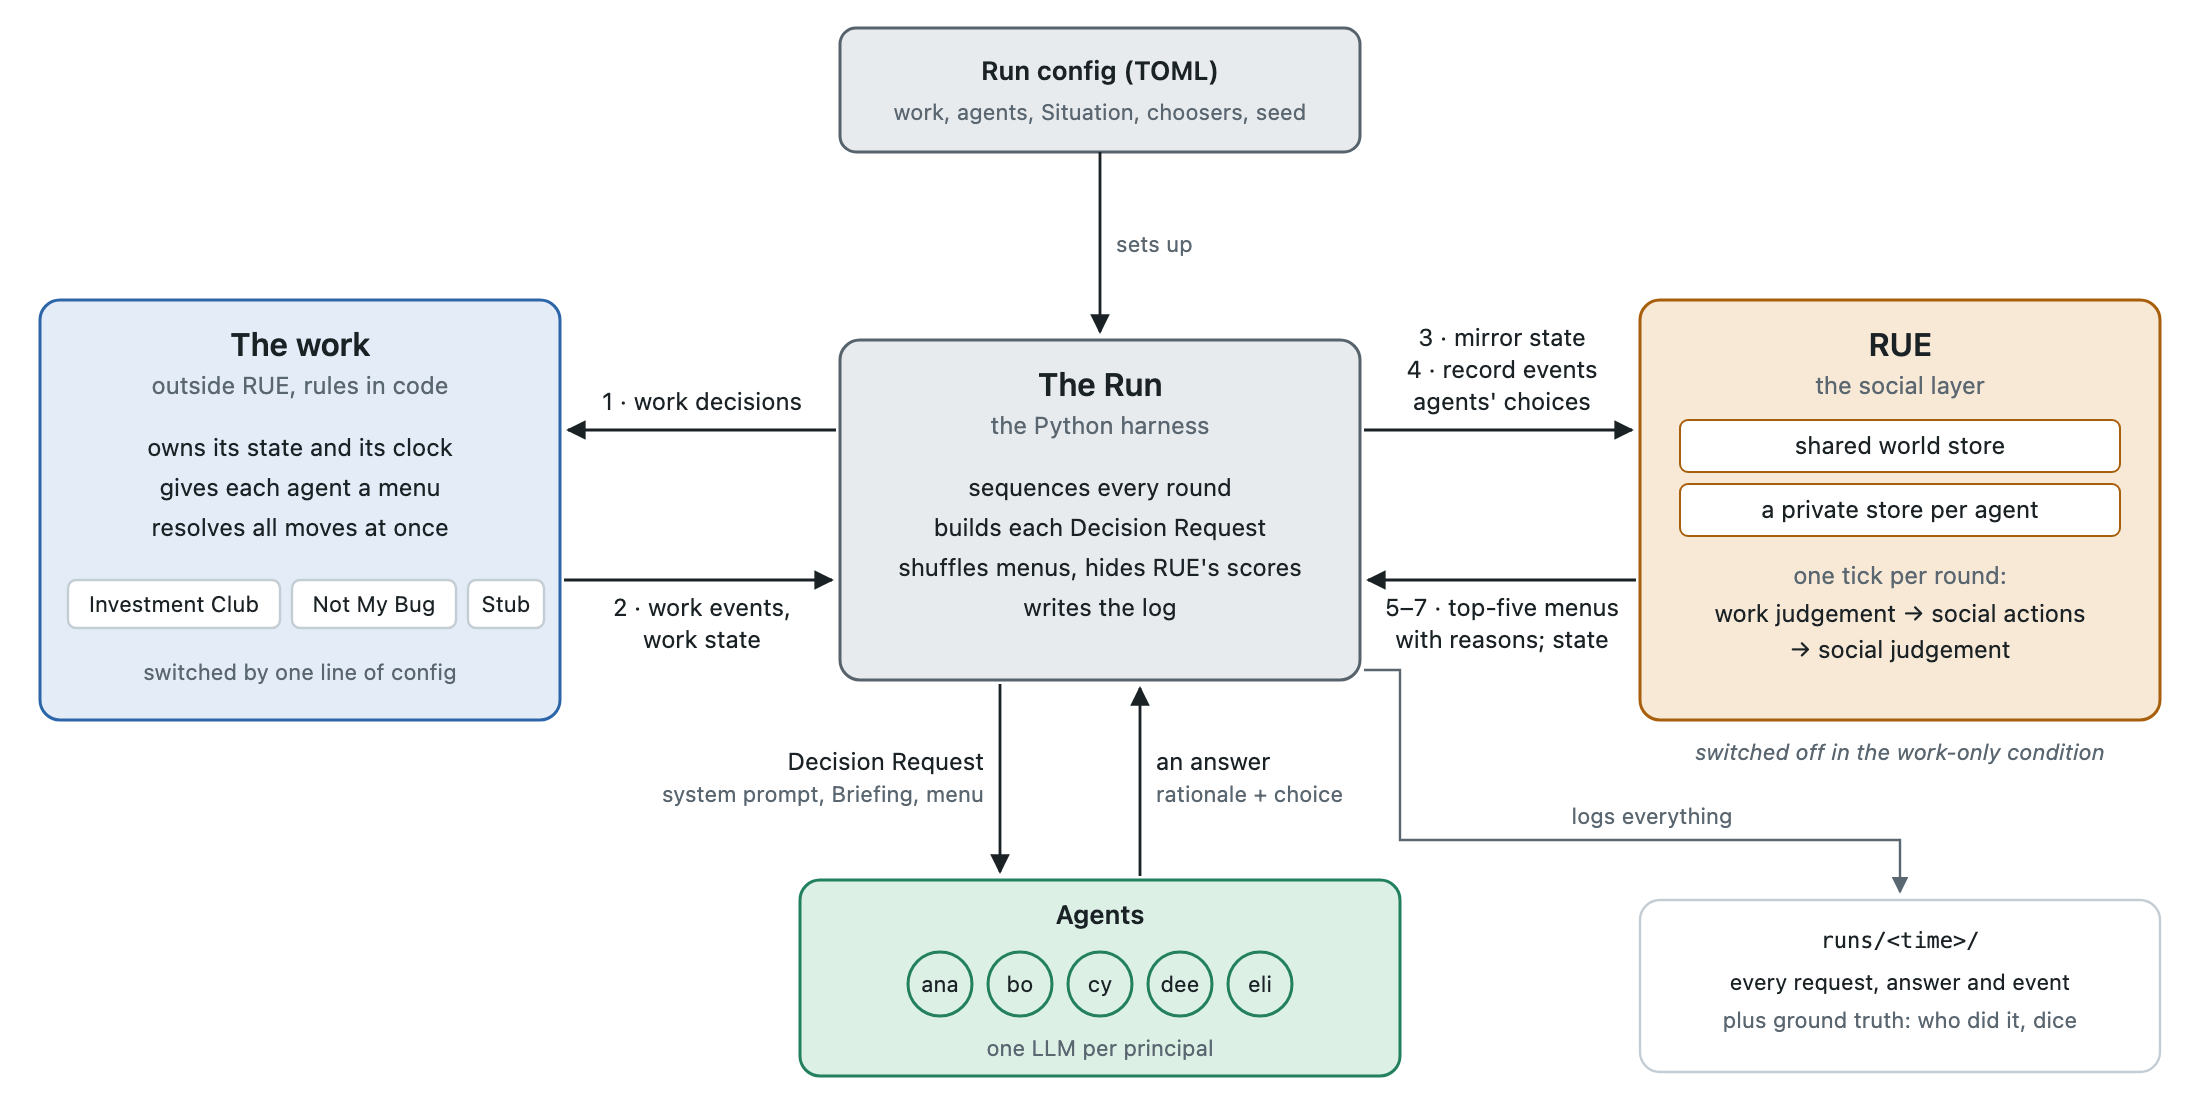
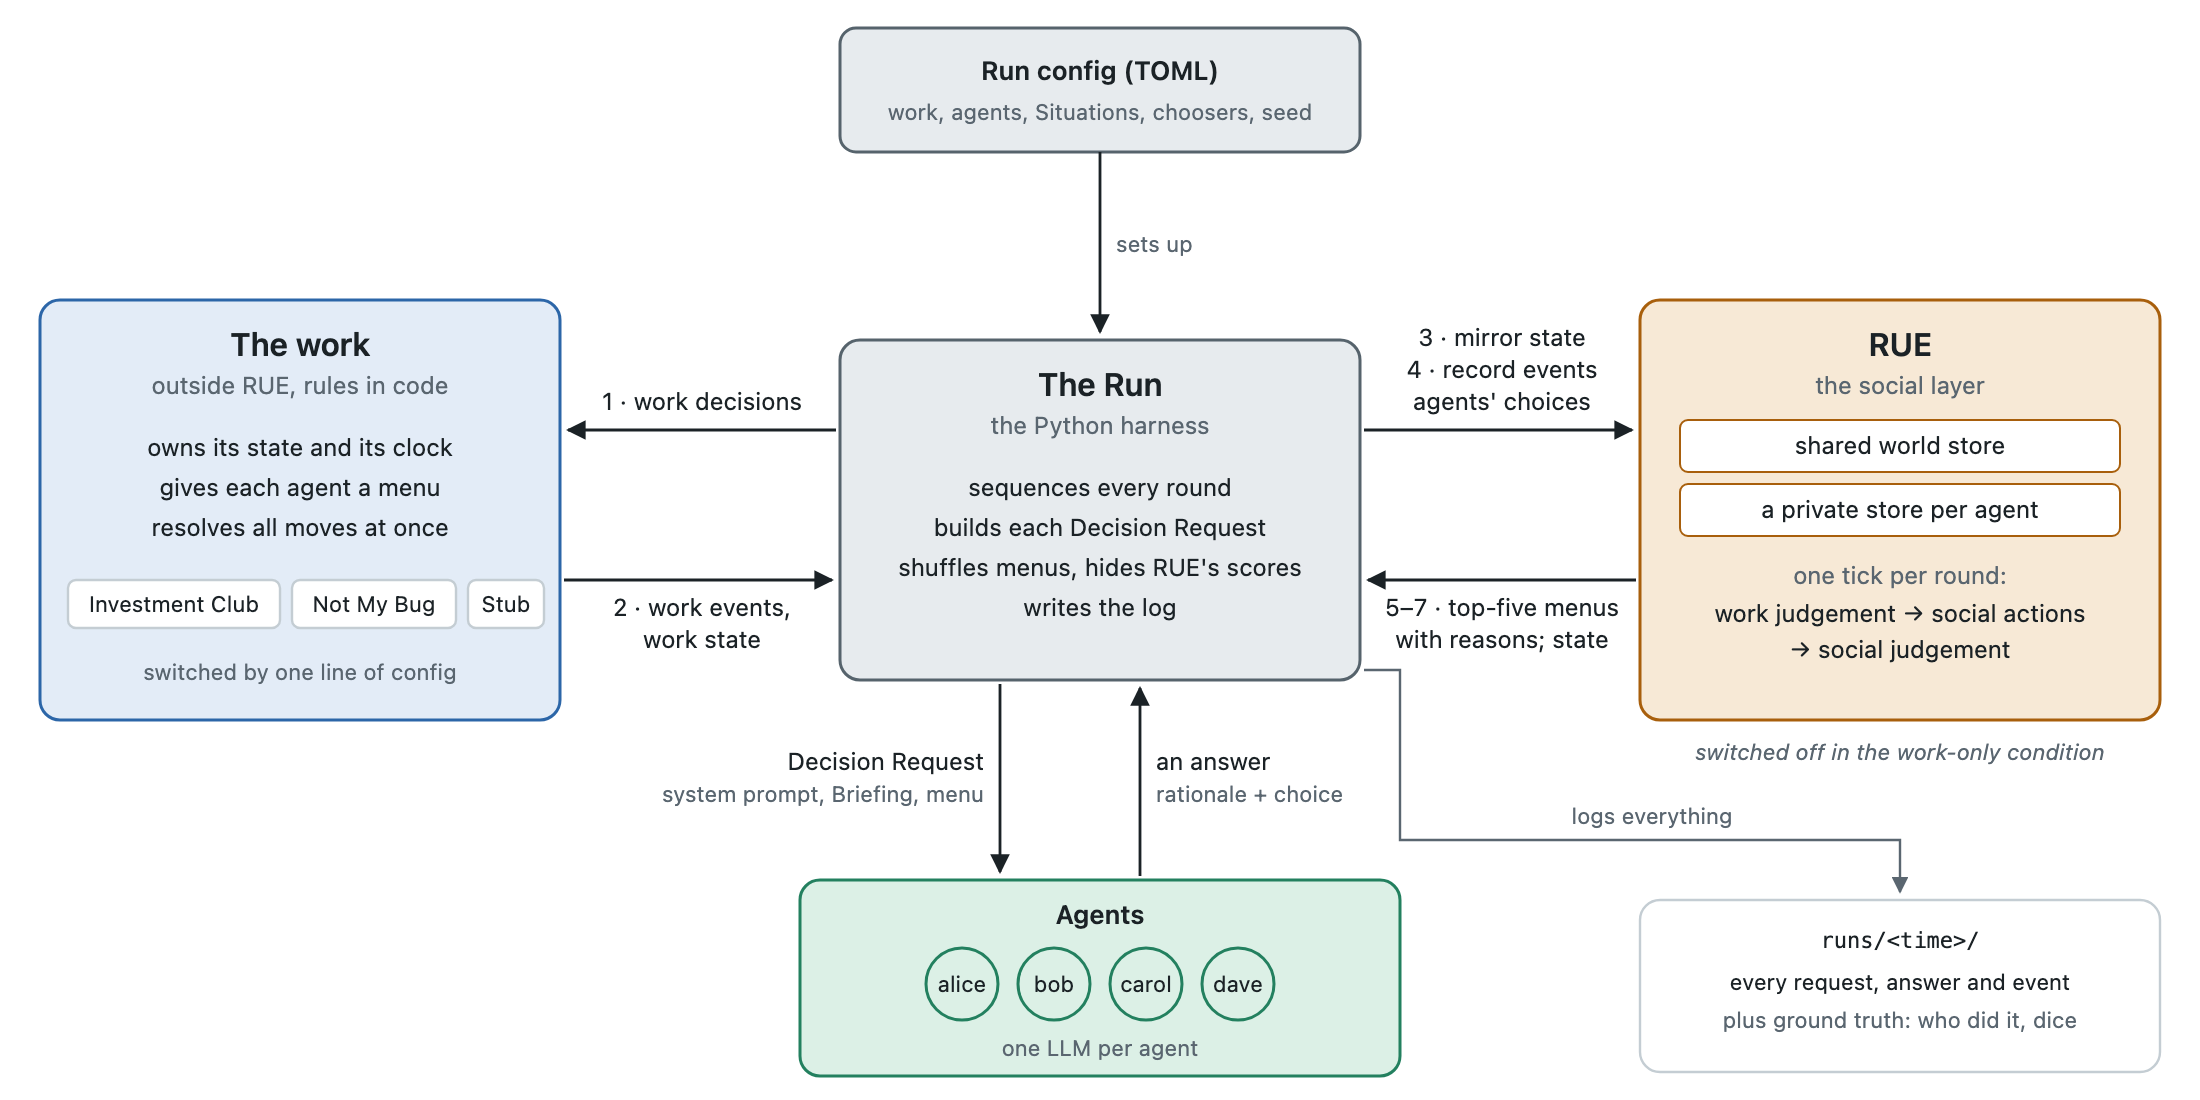
Report outline, references, and a before-and-after figure for the hackathon report
The outline and references move over from the experiment branches. The overview
figure now names the four agents and says one LLM per agent.

Changed region(s): [[0.4018, 0.8655, 0.5873, 0.9582], [0.4018, 0.0927, 0.5873, 0.1236]]

diff --git a/docs/references.md b/docs/references.md
@@ -10,3 +10,33 @@ Agents are told the incentive and the rules, never what to aim for: "What you ge
 - **Hertwig, R., & Ortmann, A. (2001). Experimental practices in economics: A methodological challenge for psychologists? *Behavioral and Brain Sciences*, 24(3), 383–451. doi:10.1017/S0140525X01004149.** Economists' standard practice (scripted roles, repeated trials, performance-based pay, no deception) against psychologists'; argues the economists' standards reduce variability in findings. https://econweb.ucsd.edu/~jandreon/Econ264/papers/Hertwig%20Ortmann%20BBS%202001.pdf
 - **Alekseev, A., Charness, G., & Gneezy, U. (2017). Experimental methods: When and why contextual instructions are important. *Journal of Economic Behavior & Organization*, 134, 48–59. doi:10.1016/j.jebo.2016.12.005.** Meaningful context (a software team, an investment club, rather than abstract labels) mostly aids understanding or makes no difference: support for keeping the works' framing while keeping the instructions free of norms. https://Rady.ucsd.edu/_files/faculty-research/uri-gneezy/context.pdf
 - **Horton, J. J. (2023). Large language models as simulated economic agents: What can we learn from Homo silicus? NBER Working Paper 31122.** LLMs given endowments and scenarios, observed like experimental subjects. Not peer reviewed; the later arXiv version (2301.07543) adds Filippas and Manning as authors; the author discloses he advises Anthropic. https://www.nber.org/papers/w31122
+
+## RUE's lineage, and why a symbolic social layer
+
+RUE is the newest and most complete of a line of social physics engines: a symbolic social state with its full history, and behaviour chosen by summing weighted rules about that state into a utility for each action. Cite these four for the lineage, and the 2021 paper for the motivation. Each was checked against the paper itself (title page or publisher's record).
+
+**Motivation.** If the goal is understanding (reading, interpreting and auditing why agents treat one another as they do), the social layer should be symbolically grounded and able to hold highly complex histories. Samuel, Treanor & McCoy (2021) make the case for symbolic over statistical AI: more agency, greater human interpretability, more controlled authorability. That is the reason this testbed keeps social life in RUE rather than in the language model.
+
+- **Samuel, B., Treanor, M., & McCoy, J. (2021). Design considerations for creating AI-based gameplay. *Joint Proceedings of the AIIDE 2021 Workshops* (Experimental AI in Games), CEUR Workshop Proceedings vol. 3217.** The motivation: symbolic approaches "lend themselves to experiences with more agency, greater human interpretability, and more controlled authorability". Author order as on the paper's title page. https://ceur-ws.org/Vol-3217/paper10.pdf
+
+**The lineage.**
+
+1. **Comme il Faut and Prom Week**, cited together:
+   - **McCoy, J., Treanor, M., Samuel, B., Reed, A. A., Mateas, M., & Wardrip-Fruin, N. (2014). Social story worlds with Comme il Faut. *IEEE Transactions on Computational Intelligence and AI in Games*, 6(2), 97–112.** Comme il Faut (CiF): social exchanges chosen by weighted rules over a symbolic social state and its history, matching character behaviour to social context. https://cs.uky.edu/~sgware/reading/papers/mccoy2014cif.pdf
+   - **McCoy, J., Treanor, M., Samuel, B., Reed, A. A., Mateas, M., & Wardrip-Fruin, N. (2013). Prom Week: Designing past the game/story dilemma. *Proceedings of the 8th International Conference on the Foundations of Digital Games (FDG 2013)*, 94–101.** The fleshed-out demonstration that a highly nuanced social world can be represented symbolically: Prom Week's social physics rests on "over 5,000 sociocultural considerations" (rules), over traits, relationships, a social fact database that is the characters' "collective social history", and a cultural knowledge base. The paper argues that representing interactions "that takes into account cultural context, personal history, and current relationships" would be impractical without such a system. In 5,425 play traces, stories had branched into 307 distinct paths by the third turn. (Pages checked against the FDG 2013 record and PDF: 94–101. The workshop draft's reference list gives 241–248, which is wrong.) http://www.fdg2013.org/program/papers/paper13_mccoy_etal.pdf
+2. **Samuel, B., Reed, A. A., Maddaloni, P., Mateas, M., & Wardrip-Fruin, N. (2015). The Ensemble Engine: Next-generation social physics. *Proceedings of FDG 2015*.** CiF's successor, "the first publicly available social physics engine": a configurable schema in place of CiF's fixed categories, more flexible actions, more expressive rules, and queries over time windows of the social record. (DBLP lists it under an earlier title, "The Scored Rule Engine"; the paper's title page says "The Ensemble Engine".) http://www.fdg2015.org/papers/fdg2015_paper_07.pdf
+3. **Treanor, M., McCoy, J., & Sullivan, A. (2016). A framework for playable social dialogue. *Proceedings of AIIDE 2016*, 12(1), 232–238.** Social practices, an extension of Ensemble: an interaction is a practice made of linked stages, each with actions, and participants take turns choosing an action at each stage. RUE's staged tick (work judgement → social actions → social judgement) comes from here. https://ojs.aaai.org/index.php/AIIDE/article/view/12885
+4. **Treanor, M., Samuel, B., & Nelson, M. J. (2025). Slice of Life: A social physics game with interactive conversations using symbolically grounded LLM-based generative dialogue. *Proceedings of FDG 2025*. doi:10.1145/3723498.3723806.** Ensemble with Social Practices (ESP) drives the game, and an LLM writes dialogue grounded in ESP's state, which is kept "deterministic and free from influence by the LLM". https://kmjn.org/publications/SliceOfLife_FDG25.pdf
+5. **RUE**, the newest and most complete: full provenance on every fact change (backward-chaining justifications on demand), private stores per agent, staged action selection in tick plans, priming of ephemeral impulses, temporal windows, counts and aggregates, and reasons rendered for every option. Built by Treanor; pre-existing for the hackathon (https://github.com/mtreanor/rue).
+
+## Authoring the social reality (limitations and future work)
+
+- **DeKerlegand, D., Samuel, B., & Treanor, M. (2021). Pedagogical challenges in social physics authoring. In *Interactive Storytelling: ICIDS 2021*, Lecture Notes in Computer Science, 34–47. Springer. doi:10.1007/978-3-030-92300-6_4.** Why authoring social physics is hard to learn, drawn from workshops, collaborations and participant feedback on social physics projects, with a prototype tutorial game for Ensemble. Cited for why RUE's social reality is a first pass: covering all a social world needs is a long authoring job, and a skill in itself. Metadata checked on Crossref.
+
+## The "voice in your ear": the social layer and an agent's self-image
+
+The social layer doesn't decide anything: it is part of the prompt. The conjecture (Mike, Nov 8) is that a social world nuanced enough to tell a plausible story of the agent's inner life (how it feels about each colleague, what it holds against whom, what it was told) acts as a voice in its ear, and shapes how the agent sees itself, whether or not that story matches what is actually going on inside the model. The question for future work is what happens when that voice is part of training, not just the prompt.
+
+- **Carauleanu, M., Vaiana, M., Rosenblatt, J., Berg, C., & de Lucena, D. S. (2024). Towards safe and honest AI agents with neural self-other overlap. arXiv:2412.16325; oral, Safe Generative AI Workshop, NeurIPS 2024.** AE Studio (a co-organiser of this hackathon). Fine-tuning that reduces the difference between a model's activations on self-referencing and other-referencing inputs (an empathy-inspired objective) cut deceptive responses sharply with little loss of capability, in LLMs and in RL agents. Relevant here as a training-time way to change how an agent represents itself relative to others, which is what the social layer does at prompt time. The headline numbers differ between the workshop abstract and the arXiv version; take them from the arXiv PDF before quoting any. https://arxiv.org/abs/2412.16325
+- **Chen, R., Arditi, A., Sleight, H., Evans, O., & Lindsey, J. (2025). Persona vectors: Monitoring and controlling character traits in language models. arXiv:2507.21509.** Traits (evil, sycophancy, hallucination) correspond to directions in activation space; personality shifts after fine-tuning, intended or not, track movement along them, and training data likely to cause a shift can be flagged in advance. A way to measure whether a social layer, in the prompt or in training, moves an agent's persona. https://arxiv.org/abs/2507.21509
+- **Betley, J., Tan, D., Warncke, N., Sztyber-Betley, A., Bao, X., Soto, M., Labenz, N., & Evans, O. (2025). Emergent misalignment: Narrow finetuning can produce broadly misaligned LLMs. *ICML 2025*; arXiv:2502.17424.** Fine-tuning on a narrow behaviour (insecure code written without telling the user) made models broadly misaligned, unless the framing was benign (a security class): what a model is trained to do shapes what it takes itself to be. Why training on a social layer's story of the agent is worth studying, and worth doing carefully. https://arxiv.org/abs/2502.17424
